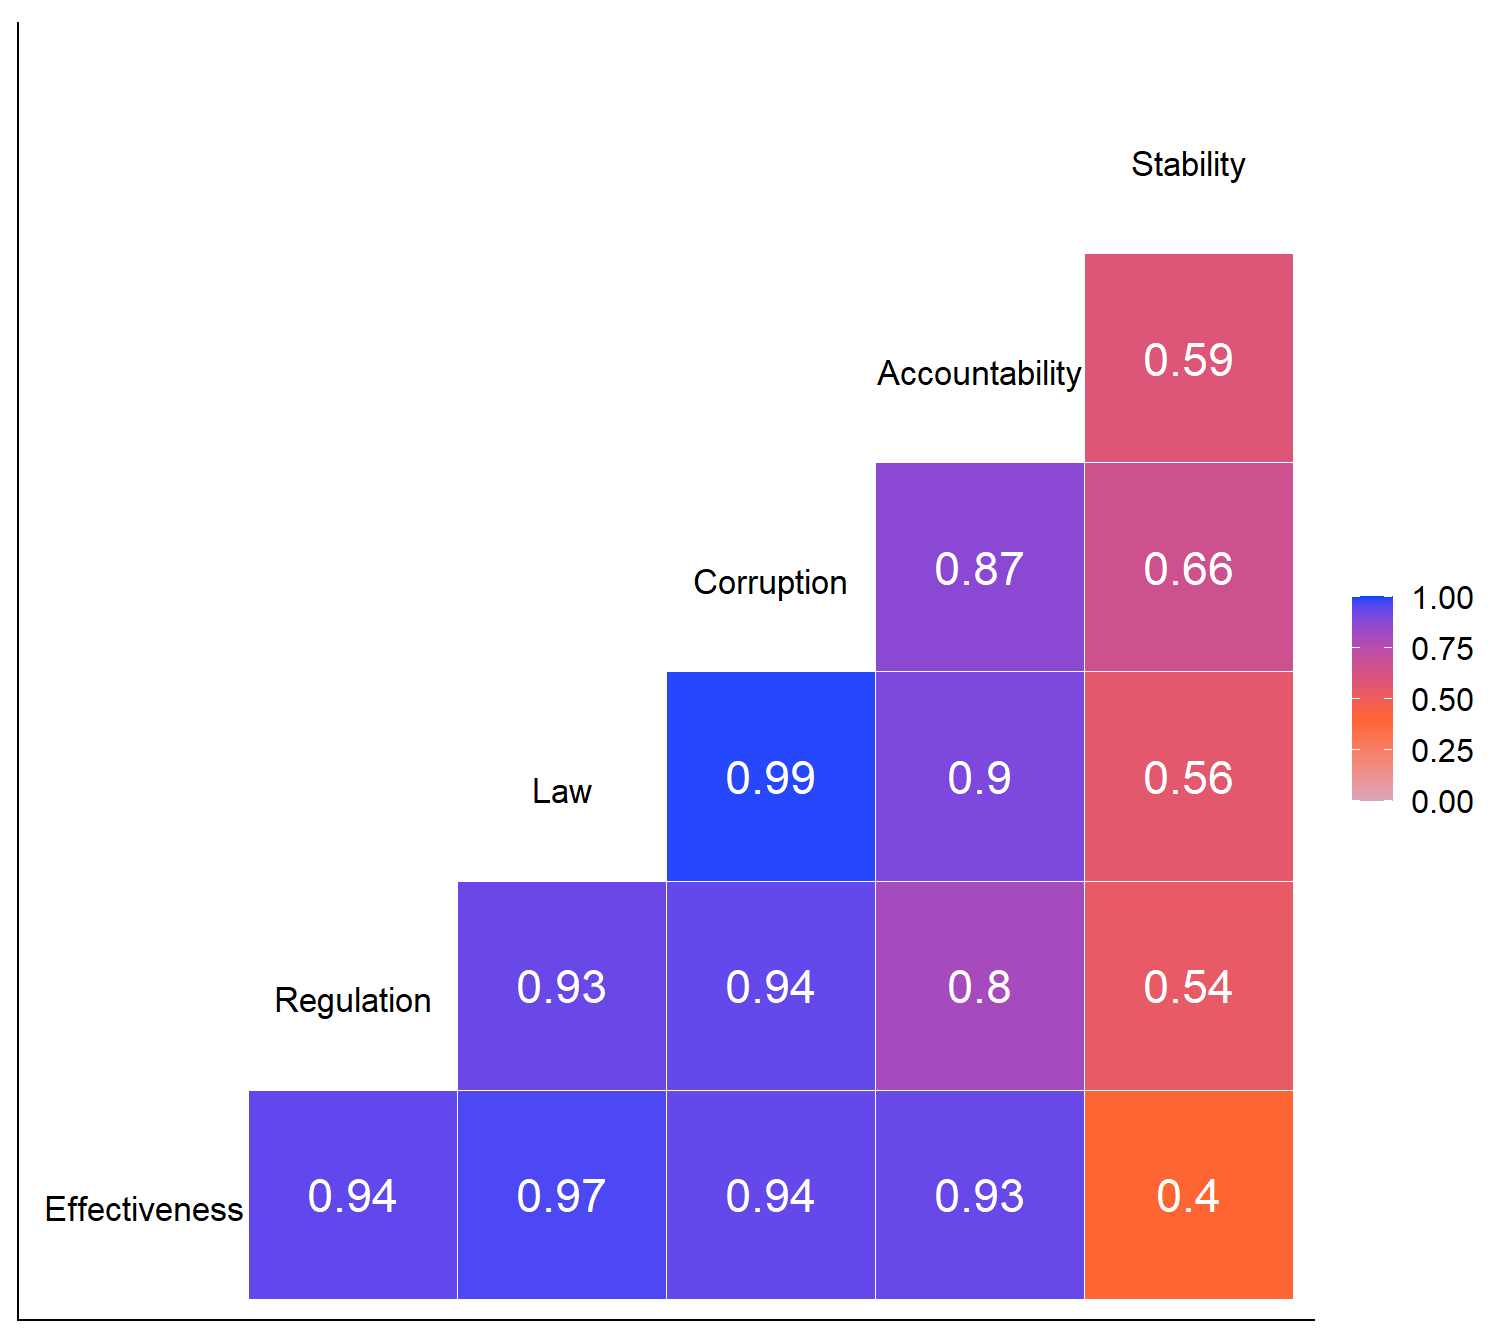
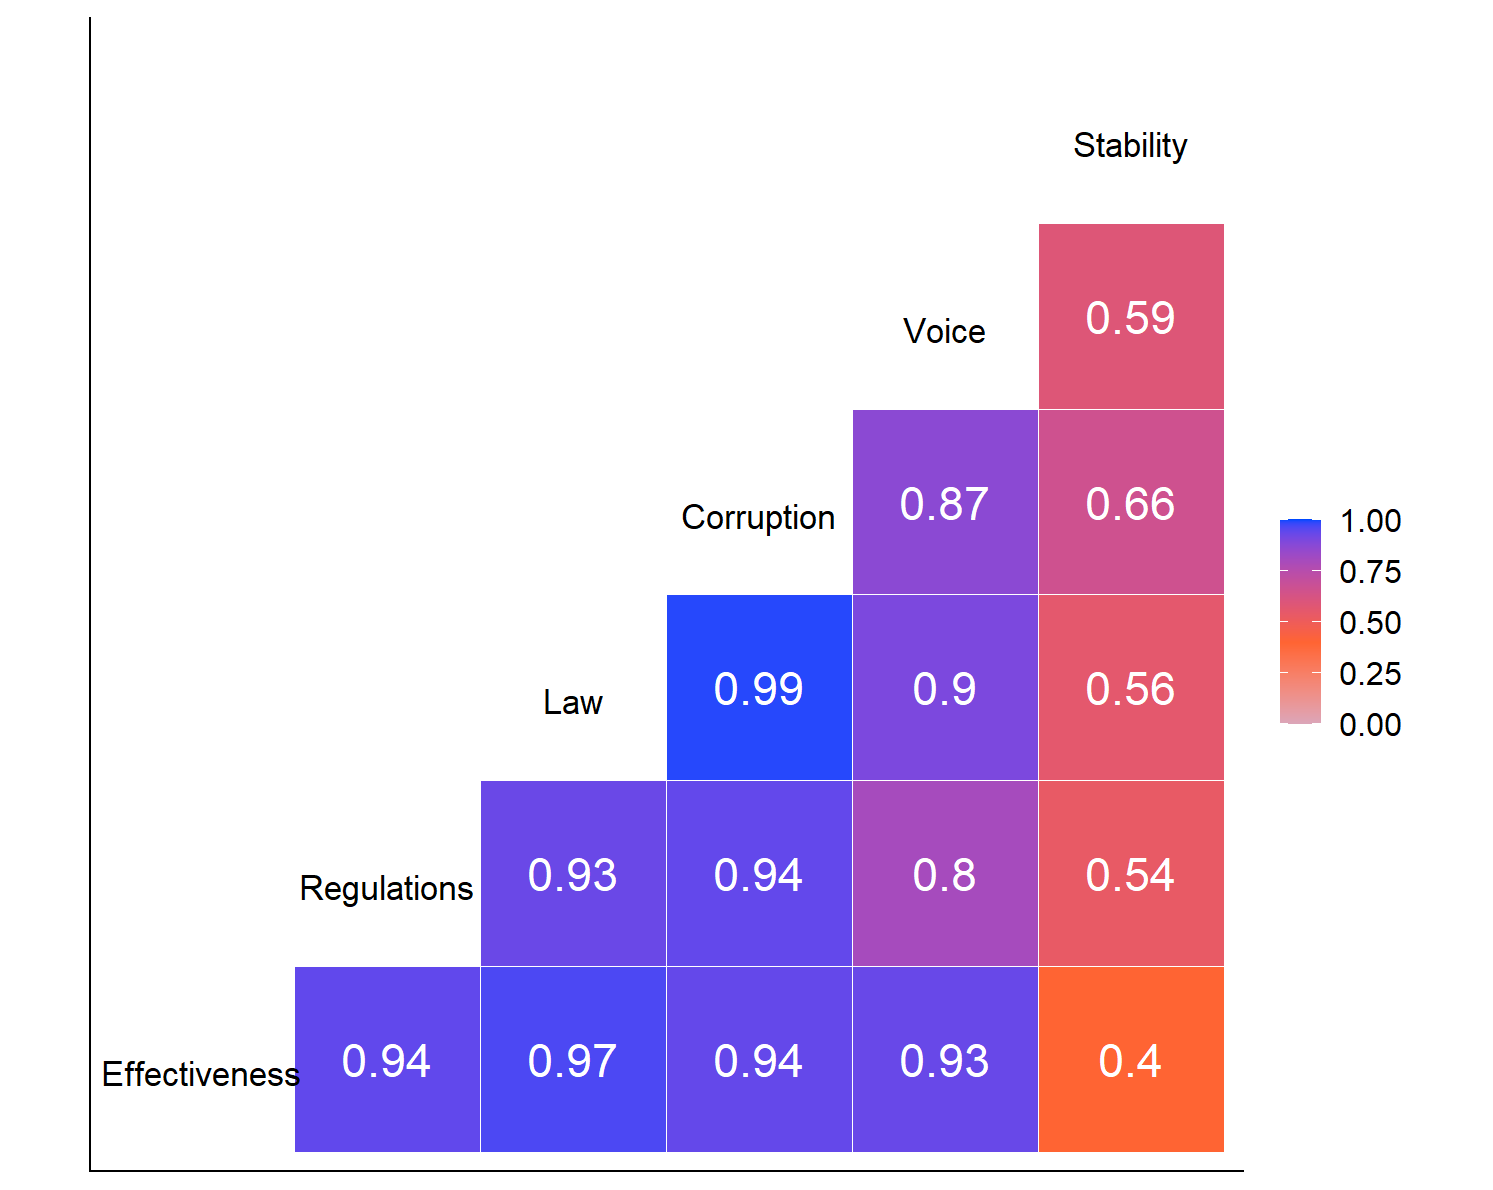
css style update

diff --git a/content/posts/2022-10-12-world-governance/world-gov-indicators.html b/content/posts/2022-10-12-world-governance/world-gov-indicators.html
@@ -83,17 +83,24 @@ ol {
     overflow: hidden;
 }
 
+h3 {
+    letter-spacing: -.04em;
+    font-family: "Open Sans",sans-serif;
+    font-weight: 700;
+    line-height: 1.45em;
+    color: crimson;
+}
 
 </style>
-<p><strong>Last Update:</strong> October 23, 2022 - 13:22</p>
+<p><strong>Last Update:</strong> October 24, 2022 - 09:00</p>
 <div id="table-of-contents" class="section level1">
 <h1>Table of Contents</h1>
 <ol style="list-style-type: decimal">
 <li><a href="#introduction">Introduction</a></li>
-<li><a href="#motivation">Motivation</a> 💡</li>
-<li><a href="#dataset">Dataset</a>🗒</li>
-<li><a href="#data-preparation">Data Preparation</a> 💻</li>
-<li><a href="#visualizations">Visualizations</a> 📈
+<li><a href="#motivation">Motivation</a></li>
+<li><a href="#dataset">Dataset</a></li>
+<li><a href="#data-preparation">Data Preparation</a></li>
+<li><a href="#visualizations">Visualizations</a>
 <ul>
 <li><p><a href="#correlation-between-indicators">Correlation between Indicators</a></p></li>
 <li><p><a href="#most-recent-results-2021-by-country">Most recent results 2021 by Country</a></p></li>
@@ -249,6 +256,16 @@ print(df)
 <p>Most of the charts are interactive! If you see a <strong><em>[Full Screen]</em></strong> option next to a chart, it means the chart is interactive and you can view it in full screen.</p>
 <div id="correlation-between-indicators" class="section level3">
 <h3>Correlation between Indicators</h3>
+<p>The correlation chart below shows the connection between indicators.</p>
+<p>For purposes of text space in the chart below, I have shortened the indicator’s names:</p>
+<ul>
+<li><p><strong>Corruption</strong> = Control of Corruption;</p></li>
+<li><p><strong>Effectiveness</strong> = Government Effectiveness;</p></li>
+<li><p><strong>Stability</strong> = Political Stability and Absence of Violence;</p></li>
+<li><p><strong>Regulations</strong> = Regulatory Quality;</p></li>
+<li><p><strong>Law</strong> = Rule of Law;</p></li>
+<li><p><strong>Voice</strong> = Voice and Accountability.</p></li>
+</ul>
 <pre class="r"><code>
 # Correlation Matrix
 df_cor &lt;- df %&gt;% 
@@ -259,9 +276,9 @@ df_cor &lt;- df %&gt;%
             rename(Corruption = 1,
                    Effectiveness = 2,
                    Stability = 3,
-                   Regulation = 4,
+                   Regulations = 4,
                    Law = 5,
-                   Accountability = 6) %&gt;% 
+                   Voice = 6) %&gt;% 
             corrr::correlate(quiet = TRUE) %&gt;% 
             corrr::rearrange()
 
@@ -286,21 +303,20 @@ cor_plot &lt;- df_cor %&gt;%
                              angle = 0) +
               # ggtitle(&quot;Indicators Correlation&quot;) +
               cowplot::theme_cowplot() +
-              theme(plot.title = element_text(size = 24, hjust = .5))
+              theme(plot.title = element_text(size = 22, hjust = .5))
 ## Warning in GGally::ggcorr(., low = &quot;#abc3ff&quot;, mid = &quot;#ff6432&quot;, high =
 ## &quot;#0048ff&quot;, : data in column(s) &#39;term&#39; are not numeric and were ignored
 
 print(df_cor)
 ## # A tibble: 6 × 7
-##   term           Effectiveness Regulation    Law Corruption Accountabi…¹ Stabi…²
-##   &lt;chr&gt;                  &lt;dbl&gt;      &lt;dbl&gt;  &lt;dbl&gt;      &lt;dbl&gt;        &lt;dbl&gt;   &lt;dbl&gt;
-## 1 Effectiveness         NA          0.932  0.929      0.918        0.752   0.714
-## 2 Regulation             0.932     NA      0.903      0.865        0.781   0.667
-## 3 Law                    0.929      0.903 NA          0.937        0.822   0.789
-## 4 Corruption             0.918      0.865  0.937     NA            0.772   0.750
-## 5 Accountability         0.752      0.781  0.822      0.772       NA       0.688
-## 6 Stability              0.714      0.667  0.789      0.750        0.688  NA    
-## # … with abbreviated variable names ¹Accountability, ²Stability
+##   term          Effectiveness Regulations    Law Corruption  Voice Stability
+##   &lt;chr&gt;                 &lt;dbl&gt;       &lt;dbl&gt;  &lt;dbl&gt;      &lt;dbl&gt;  &lt;dbl&gt;     &lt;dbl&gt;
+## 1 Effectiveness        NA           0.932  0.929      0.918  0.752     0.714
+## 2 Regulations           0.932      NA      0.903      0.865  0.781     0.667
+## 3 Law                   0.929       0.903 NA          0.937  0.822     0.789
+## 4 Corruption            0.918       0.865  0.937     NA      0.772     0.750
+## 5 Voice                 0.752       0.781  0.822      0.772 NA         0.688
+## 6 Stability             0.714       0.667  0.789      0.750  0.688    NA
 print(cor_plot)</code></pre>
 <div class="figure"><span style="display:block;" id="fig:indicators-correlation"></span>
 <img src="/posts/2022-10-12-world-governance/world-gov-indicators_files/figure-html/indicators-correlation-1.png" alt="Correlation between Indicators." width="100%" />
@@ -312,6 +328,8 @@ Figure 1: Correlation between Indicators.
 <div id="most-recent-results-2021-by-country" class="section level3">
 <h3>Most recent results 2021 by Country</h3>
 <p><strong>[<a href="/widgets/WGI_2021.html">Full Screen</a>]</strong></p>
+<p>The map below shows the <strong>2021 results</strong> for each country.</p>
+<p>As this is an interactive map, for you to see the scores, you will need to hover the mouse over the country, and then you will see the results of all six indicators, including the mean.</p>
 <pre class="r"><code>
 df_2021 &lt;- df %&gt;% 
             mutate(value = round(value, 2)) %&gt;% 
